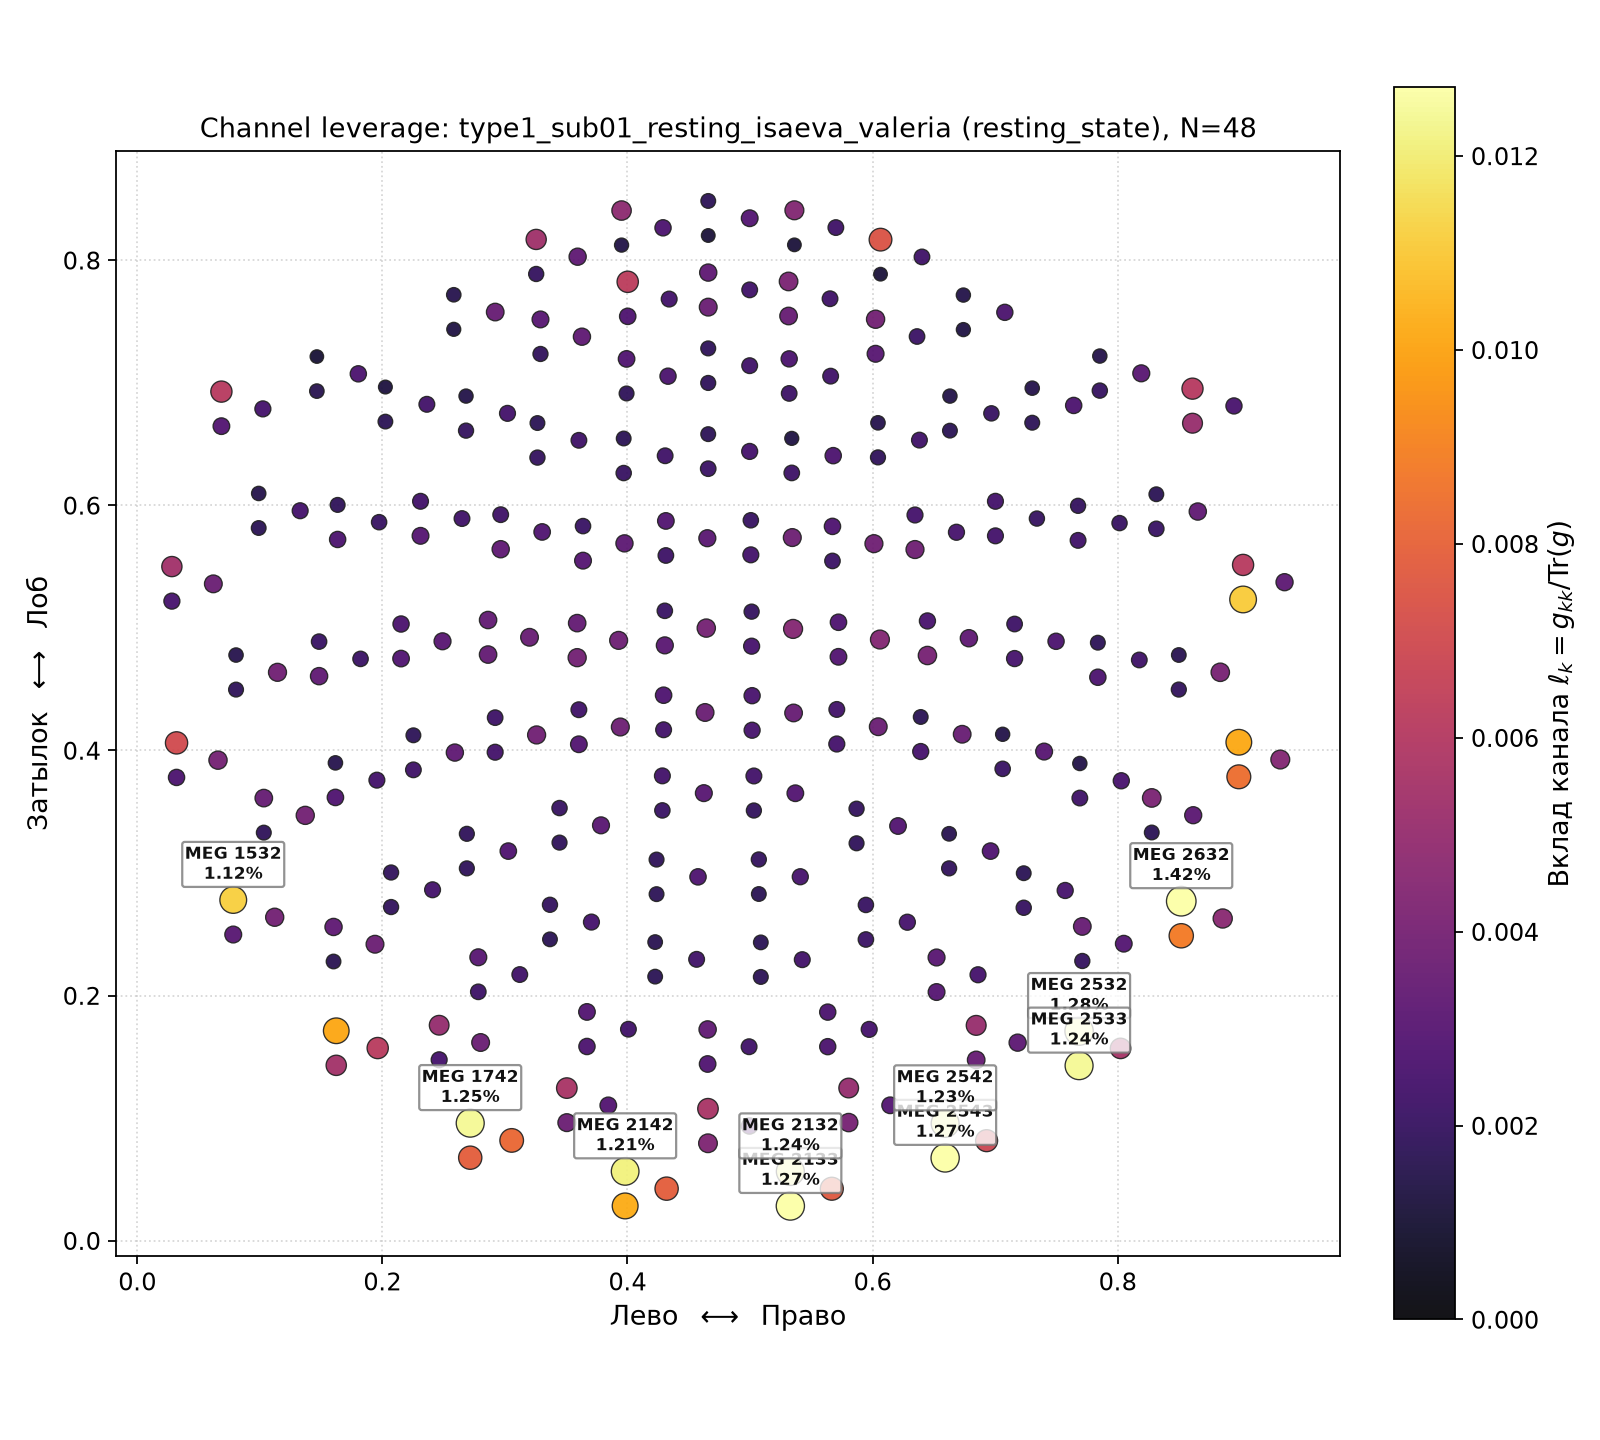
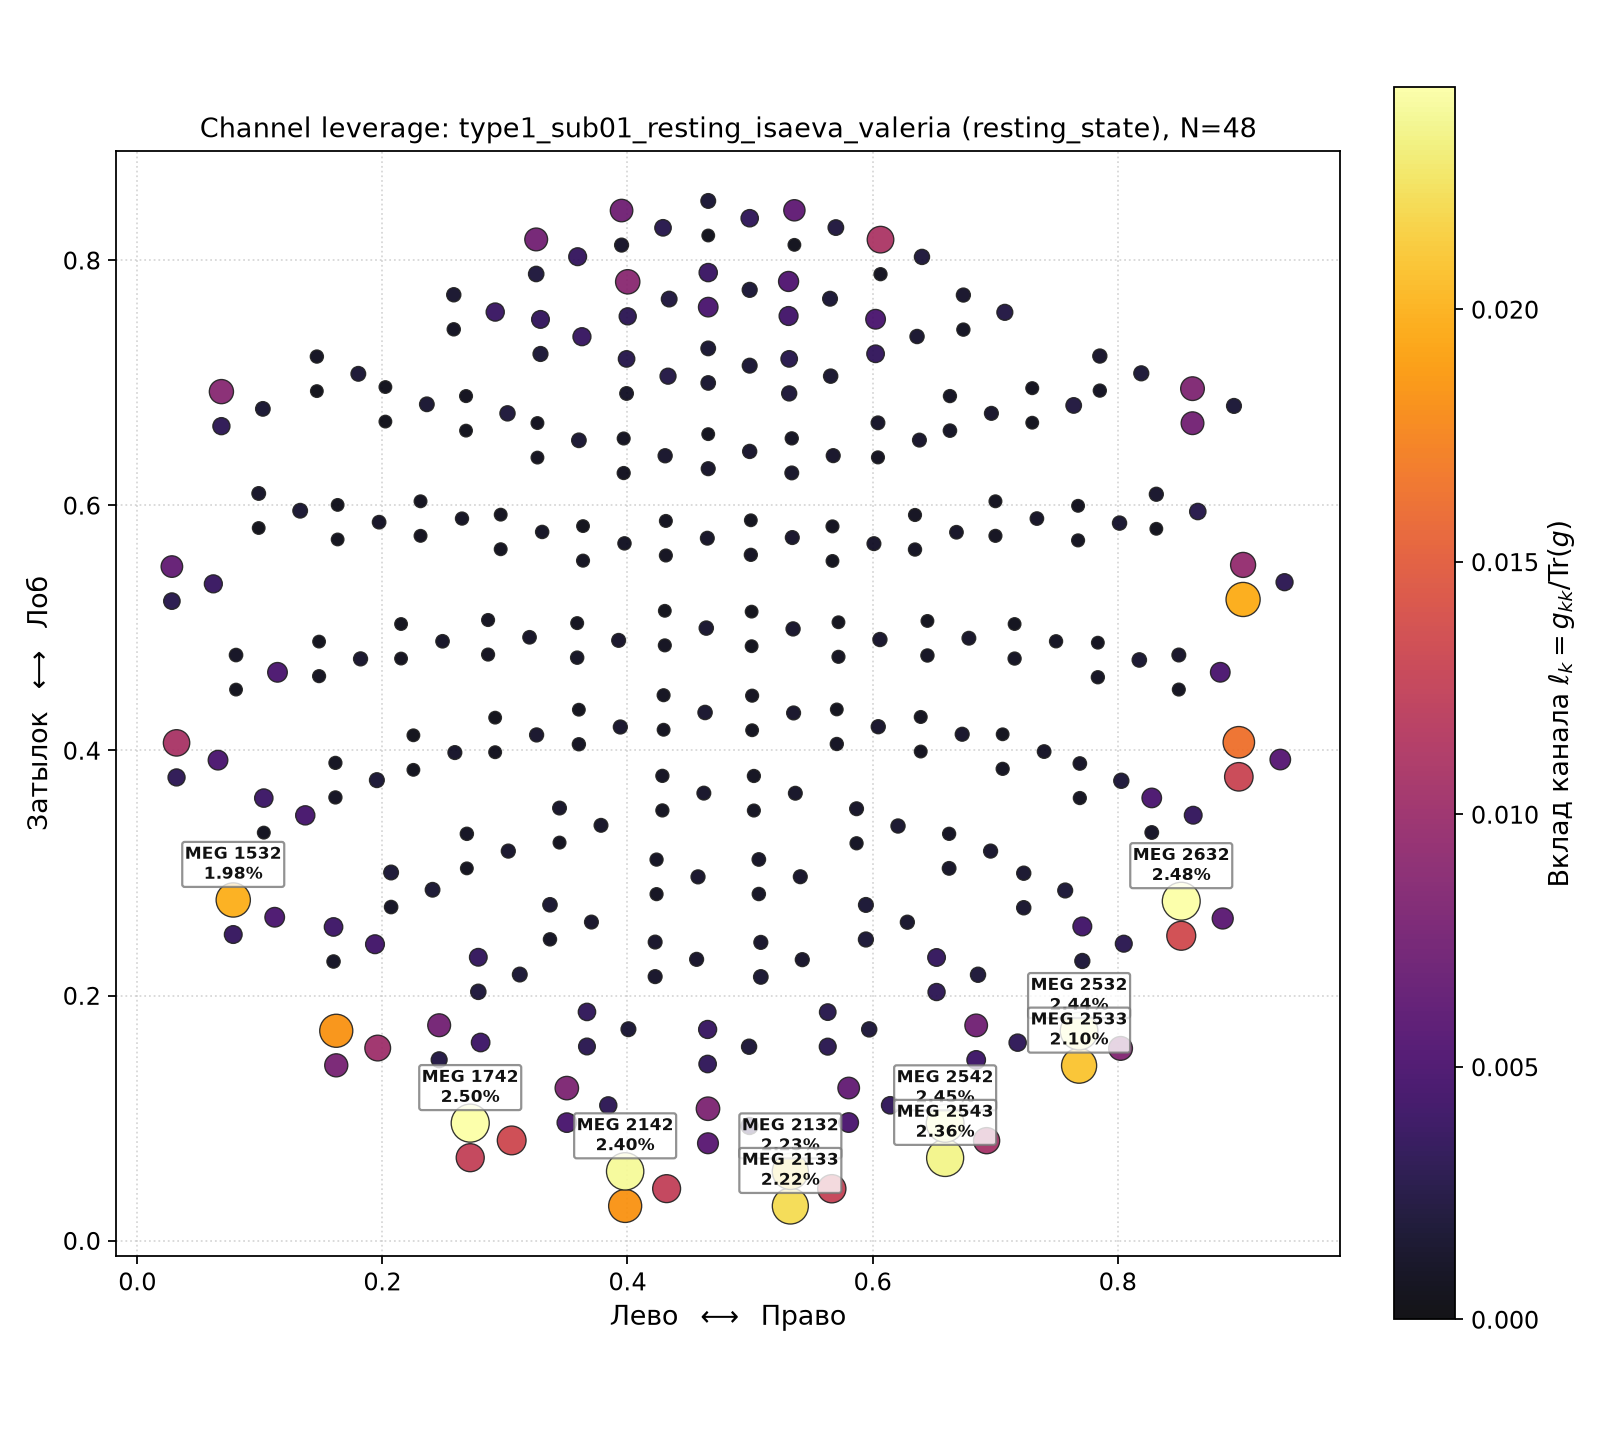
week_03_prototype

diff --git a/week_3_QCML_graphs/qcml_meg_engine_v3.py b/week_3_QCML_graphs/qcml_meg_engine_v3.py
@@ -250,22 +250,24 @@ def assemble_error_hamiltonian(
     assembled = sum_of_squared_operators.unsqueeze(0) - linear_contraction + point_term
     return hermitian_part(assembled)
 
-def stable_complex_eigh(hamiltonian: torch.Tensor) -> tuple[torch.Tensor, torch.Tensor]:
-    diagonal_mean = hamiltonian.diagonal(dim1=-2, dim2=-1).real.mean(dim=-1)
-    centered = hamiltonian - diagonal_mean.view(-1, 1, 1)
-    eigenvalues_centered, eigenvectors = torch.linalg.eigh(centered)
-    eigenvalues = eigenvalues_centered + diagonal_mean.view(-1, 1)
-    return eigenvalues, eigenvectors
+def complex_eigh(hamiltonian: torch.Tensor) -> tuple[torch.Tensor, torch.Tensor]:
+    matrix = hermitian_part(hamiltonian)
+    if not torch.is_grad_enabled():
+        eigenvalues, eigenvectors = torch.linalg.eigh(matrix.to(torch.complex128))
+        return eigenvalues.to(torch.float32), eigenvectors.to(torch.complex64)
+    return torch.linalg.eigh(matrix)
+
+
 
 def lowest_eigenpair(hamiltonian: torch.Tensor) -> tuple[torch.Tensor, torch.Tensor]:
-    eigenvalues, eigenvectors = stable_complex_eigh(hamiltonian)
+    eigenvalues, eigenvectors = complex_eigh(hamiltonian)
     return eigenvalues[:, 0].to(torch.float32), eigenvectors[:, :, 0].to(torch.complex64)
 
 
 def ground_and_excited_eigenpairs(
     hamiltonian: torch.Tensor,
 ) -> tuple[torch.Tensor, torch.Tensor, torch.Tensor, torch.Tensor]:
-    eigenvalues, eigenvectors = stable_complex_eigh(hamiltonian)
+    eigenvalues, eigenvectors = complex_eigh(hamiltonian)
     ground_eigenvalue = eigenvalues[:, 0].to(torch.float32)
     ground_state = eigenvectors[:, :, 0].to(torch.complex64)
     excited_eigenvalues = eigenvalues[:, 1:].to(torch.float32)
@@ -290,13 +292,15 @@ def compute_coordinate_expectations(
     ground_state: torch.Tensor,
     hermitian_operators: torch.Tensor,
 ) -> torch.Tensor:
+    symmetrized_operators = hermitian_part(hermitian_operators)
     expectations = torch.einsum(
         "bn, dnm, bm -> bd",
         ground_state.conj(),
-        hermitian_operators,
+        symmetrized_operators,
         ground_state,
     )
     return expectations.real
+
 
 
 def compute_bias_loss(
@@ -415,20 +419,37 @@ def error_hamiltonian_for_batch(
     point_norms_squared = compute_point_norms_squared(feature_batch)
     return assemble_error_hamiltonian(sum_of_squared, linear_contraction, point_norms_squared)
 
+def assemble_core_hamiltonian(
+    sum_of_squared_operators: torch.Tensor,
+    linear_contraction: torch.Tensor,
+) -> torch.Tensor:
+    assembled = sum_of_squared_operators.unsqueeze(0) - linear_contraction
+    return hermitian_part(assembled)
+
+
+def core_hamiltonian_for_batch(
+    feature_batch: torch.Tensor,
+    hermitian_operators: torch.Tensor,
+    sum_of_squared: torch.Tensor,
+) -> torch.Tensor:
+    linear_contraction = compute_linear_operator_contraction(feature_batch, hermitian_operators)
+    return assemble_core_hamiltonian(sum_of_squared, linear_contraction)
 
 def project_batch_to_point_cloud(
     feature_batch: torch.Tensor,
     hermitian_operators: torch.Tensor,
     sum_of_squared: torch.Tensor,
 ) -> dict[str, torch.Tensor]:
-    hamiltonian = error_hamiltonian_for_batch(feature_batch, hermitian_operators, sum_of_squared)
-    ground_eigenvalue, ground_state, excited_eigenvalues, _ = ground_and_excited_eigenpairs(hamiltonian)
+    hamiltonian = core_hamiltonian_for_batch(feature_batch, hermitian_operators, sum_of_squared)
+    ground_eigenvalue_core, ground_state, excited_eigenvalues_core, _ = ground_and_excited_eigenpairs(hamiltonian)
+    point_norms_squared = 0.5 * torch.sum(feature_batch ** 2, dim=-1)
+    ground_eigenvalue = ground_eigenvalue_core + point_norms_squared
     projected_batch = compute_coordinate_expectations(ground_state, hermitian_operators)
     return {
         "projected_batch": projected_batch,
         "ground_state": ground_state,
         "ground_eigenvalue": ground_eigenvalue,
-        "first_eigenvalue_gap": excited_eigenvalues[:, 0] - ground_eigenvalue,
+        "first_eigenvalue_gap": excited_eigenvalues_core[:, 0] - ground_eigenvalue_core,
         "local_variance": compute_local_variance(ground_state, projected_batch, sum_of_squared),
     }
 
@@ -456,19 +477,41 @@ def execute_gradient_step(
     return loss.item()
 
 
+def differentiate_ground_state(
+    hamiltonian: torch.Tensor,
+    ground_state: torch.Tensor,
+    ground_eigenvalue: torch.Tensor,
+    excited_states: torch.Tensor,
+    excited_eigenvalues: torch.Tensor,
+) -> torch.Tensor:
+    transition_elements = torch.einsum(
+        "bnk, bnm, bm -> bk",
+        excited_states.conj(),
+        hamiltonian,
+        ground_state,
+    )
+    energy_gaps = excited_eigenvalues - ground_eigenvalue.unsqueeze(-1)
+    scaled_transitions = transition_elements / energy_gaps
+    perturbation_vector = torch.einsum("bk, bnk -> bn", scaled_transitions, excited_states)
+    return ground_state - perturbation_vector
+
+
 def ground_state_for_batch(
     feature_batch: torch.Tensor,
     hermitian_operators: torch.Tensor,
     sum_of_squared: torch.Tensor,
     detach_eigenvectors: bool,
 ) -> torch.Tensor:
-    hamiltonian = error_hamiltonian_for_batch(feature_batch, hermitian_operators, sum_of_squared)
+    hamiltonian = core_hamiltonian_for_batch(feature_batch, hermitian_operators, sum_of_squared)
+    with torch.no_grad():
+        ground_eigenvalue, ground_state, excited_eigenvalues, excited_states = (
+            ground_and_excited_eigenpairs(hamiltonian)
+        )
     if detach_eigenvectors:
-        with torch.no_grad():
-            _, ground_state = lowest_eigenpair(hamiltonian)
         return ground_state
-    _, ground_state = lowest_eigenpair(hamiltonian)
-    return ground_state
+    return differentiate_ground_state(
+        hamiltonian, ground_state, ground_eigenvalue, excited_states, excited_eigenvalues
+    )
 
 
 def training_step(
@@ -526,7 +569,7 @@ def active_eigenvalues_from_projected_batch(
     hermitian_operators: torch.Tensor,
     sum_of_squared: torch.Tensor,
 ) -> torch.Tensor:
-    hamiltonian = error_hamiltonian_for_batch(projected_batch, hermitian_operators, sum_of_squared)
+    hamiltonian = core_hamiltonian_for_batch(projected_batch, hermitian_operators, sum_of_squared)
     ground_eigenvalue, ground_state, excited_eigenvalues, excited_states = ground_and_excited_eigenpairs(hamiltonian)
     eigenvalue_gaps = compute_eigenvalue_gaps(ground_eigenvalue, excited_eigenvalues)
     raw_transitions = compute_transition_matrix_elements(ground_state, excited_states, hermitian_operators)
@@ -1124,7 +1167,7 @@ def spectrum_and_metric_diagonal(
     hermitian_operators: torch.Tensor,
     sum_of_squared: torch.Tensor,
 ) -> tuple[torch.Tensor, torch.Tensor, torch.Tensor]:
-    hamiltonian = error_hamiltonian_for_batch(projected_batch, hermitian_operators, sum_of_squared)
+    hamiltonian = core_hamiltonian_for_batch(projected_batch, hermitian_operators, sum_of_squared)
     ground_eigenvalue, ground_state, excited_eigenvalues, excited_states = ground_and_excited_eigenpairs(hamiltonian)
     eigenvalue_gaps = compute_eigenvalue_gaps(ground_eigenvalue, excited_eigenvalues)
     raw_transitions = compute_transition_matrix_elements(ground_state, excited_states, hermitian_operators)
